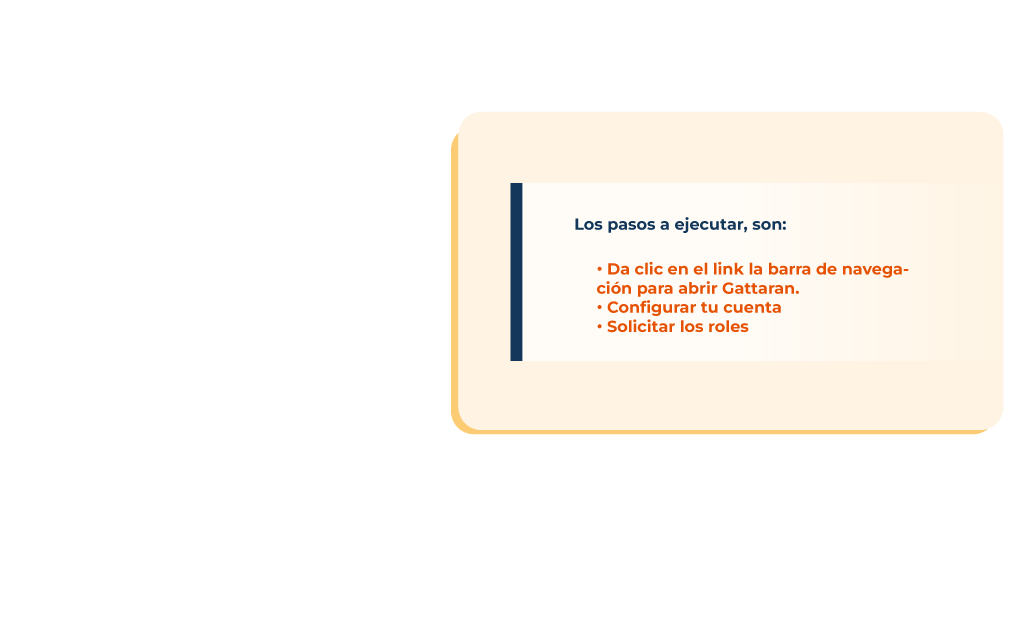
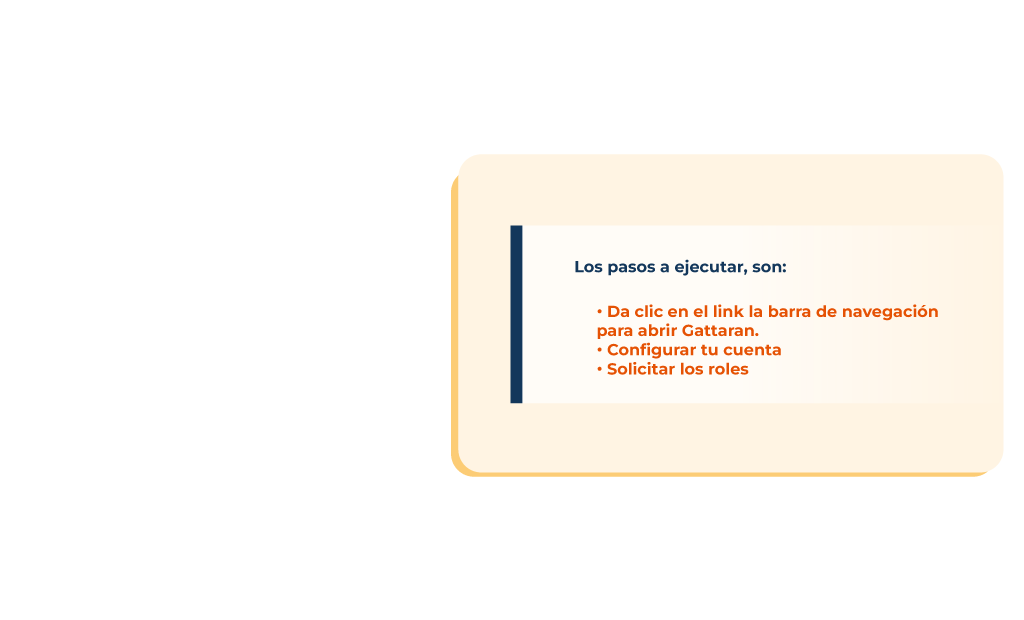
cambios a nuestro cliente favorito didi paginas 5-7

diff --git a/paginas/pagina05.html b/paginas/pagina05.html
@@ -24,7 +24,6 @@
 
     <img class="elementos" id="fondo" src="../img/pagina05/fondo.png" data-posX="0" data-posY="0"/>
     <img class="elementos" id="instrucciones1" src="../img/pagina05/instrucciones1.png" data-posX="0" data-posY="0"/>
-    <img class="elementos" id="instrucciones" src="../img/pagina05/instrucciones.png" data-posX="675.701" data-posY="445.023"/>
     <img class="elementos" id="boton" src="../img/pagina05/boton.png" data-posX="328.98" data-posY="307.43"/>
     <video class="elementos" id="video1" data-posX="0" data-posY="100"  autobuffer controls controlsList="nodownload nofullscreen">
         <source src="../video/video1.mp4" type="video/mp4" />
@@ -39,7 +38,6 @@
         const fondo = $('#fondo');
         const boton = $('#boton');
         const video1 = $('#video1');
-        const instrucciones = $('#instrucciones');
         const instrucciones1 = $('#instrucciones1');
 
         video1.css({
@@ -52,7 +50,6 @@
         const audio = [
             new Audio('../audios/gattaran_5.mp3'),
             new Audio('../audios/gattaran_5.1.mp3'),
-            new Audio('../audios/gattaran_5.2.mp3'),
         ]
 
         // Al cargarse la página
@@ -84,8 +81,6 @@
                 setTimeout(()=>{
                     document.getElementById("video1").play();
                     video1.on("ended", function() {
-                        aplicacion.reproducirAudio(audio[2], 1);
-                        animacionEntrada(instrucciones, 'default', 1, 1);
                     });
                 }, 1000);
             }

diff --git a/paginas/pagina07.html b/paginas/pagina07.html
@@ -24,10 +24,7 @@
 
     <img class="elementos" id="fondo" src="../img/pagina07/fondo.png" data-posX="0" data-posY="0"/>
     <img class="elementos" id="info" src="../img/pagina07/info.png" data-posX="0" data-posY="0"/>
-    <img class="elementos" id="instrucciones" src="../img/pagina07/instrucciones.png" data-posX="0" data-posY="0"/>
-
-
-
+   
     
     <!-- Script de la página -->
     <script>
@@ -37,15 +34,10 @@
 
         const fondo = $('#fondo');
         const info = $('#info');
-        const instrucciones = $('#instrucciones');
-        
-
 
         // Audios------------------------------------------------------
         const audio = [
             new Audio('../audios/gattaran_7.mp3'),
-            new Audio('../audios/gattaran_7.1.mp3'),
-
         ]
 
         // Al cargarse la página
@@ -55,15 +47,10 @@
         });
 
         function iniciarContenido(){
-            aplicacion.reproducirAudio(audio[0], terminaAudio01, 1);
+            aplicacion.reproducirAudio(audio[0], 1);
             aplicacion.activarBotonAdelante();
             animacionEntrada(fondo, 'default', 1, 1);
             animacionEntrada(info, 'izquierda-derecha', 1, 16);
-        }
-
-        function terminaAudio01(){
-            aplicacion.reproducirAudio(audio[1], 1);
-            animacionEntrada(instrucciones, 'izquierda-derecha', 1, 3);
         }
 
     </script>

diff --git a/paginas/pagina06.html b/paginas/pagina06.html
@@ -24,7 +24,6 @@
 
     <img class="elementos" id="fondo" src="../img/pagina06/fondo.png" data-posX="0" data-posY="0"/>
     <img class="elementos" id="instruccion1" src="../img/pagina06/instruccion1.png" data-posX="236.79" data-posY="302.49"/>
-    <img class="elementos" id="instrucciones" src="../img/pagina06/instrucciones.png" data-posX="675.701" data-posY="445.023"/>
     <a href="../infografia/gatarran.pdf" target="_blank" class="elementos" id="boton" data-posX="184.745" data-posY="413.067">
         <img src="../img/pagina06/boton.png" />
     </a>
@@ -45,7 +44,6 @@
         const audio = [
             new Audio('../audios/gattaran_6.mp3'),
             new Audio('../audios/gattaran_6.1.mp3'),
-            new Audio('../audios/gattaran_6.2.mp3'),
         ]
 
         // Al cargarse la página
@@ -71,10 +69,6 @@
         boton.click(function(){
             if(boton.css('cursor') == 'pointer'){
                 dejarParpadear(boton);
-                setTimeout(() => {
-                    aplicacion.reproducirAudio(audio[2], 1);
-                    animacionEntrada(instrucciones, 'default', 1, 1);
-                }, 3000);
             }
         });
 
